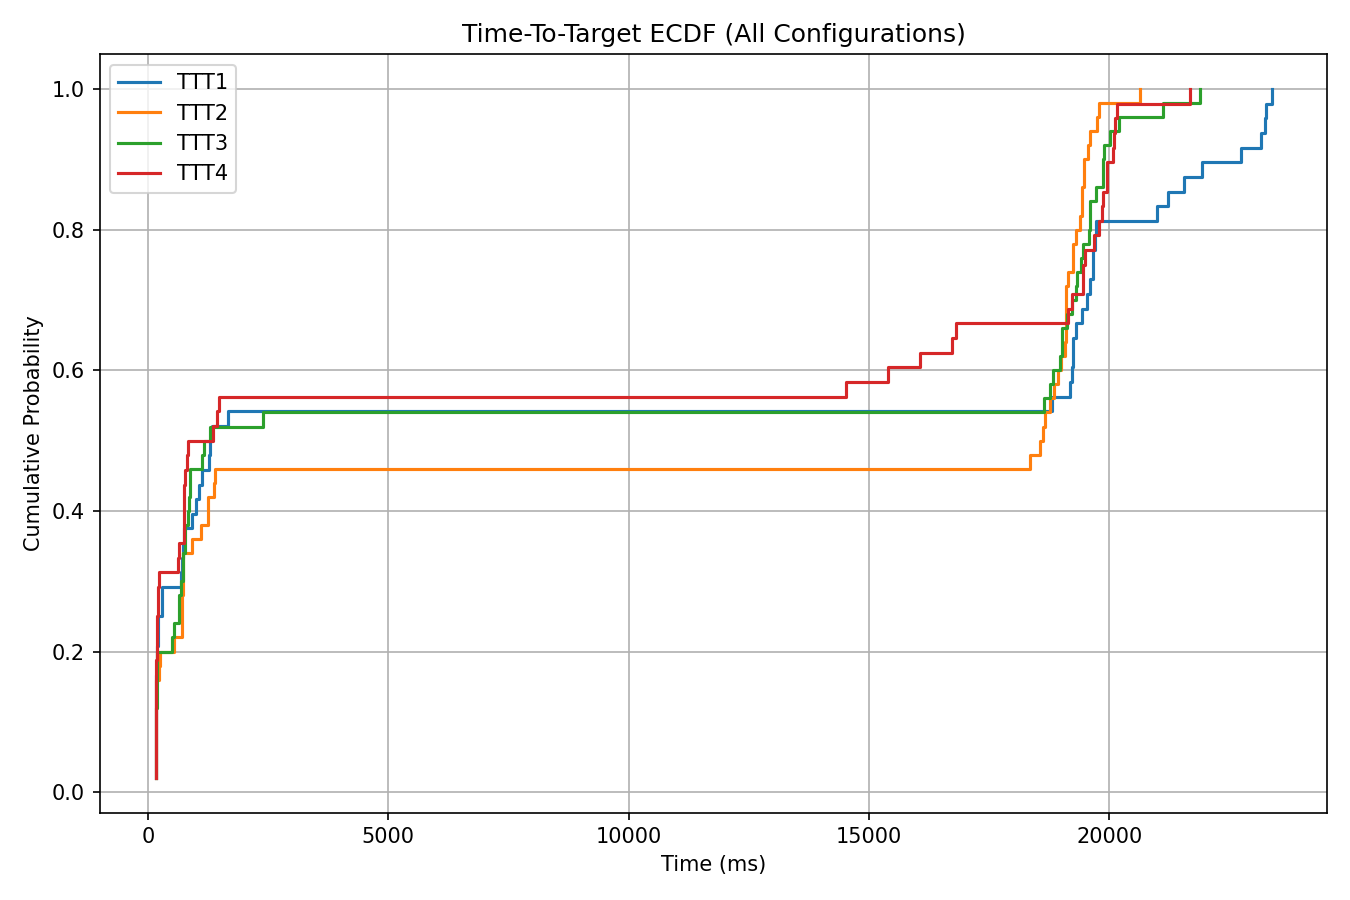
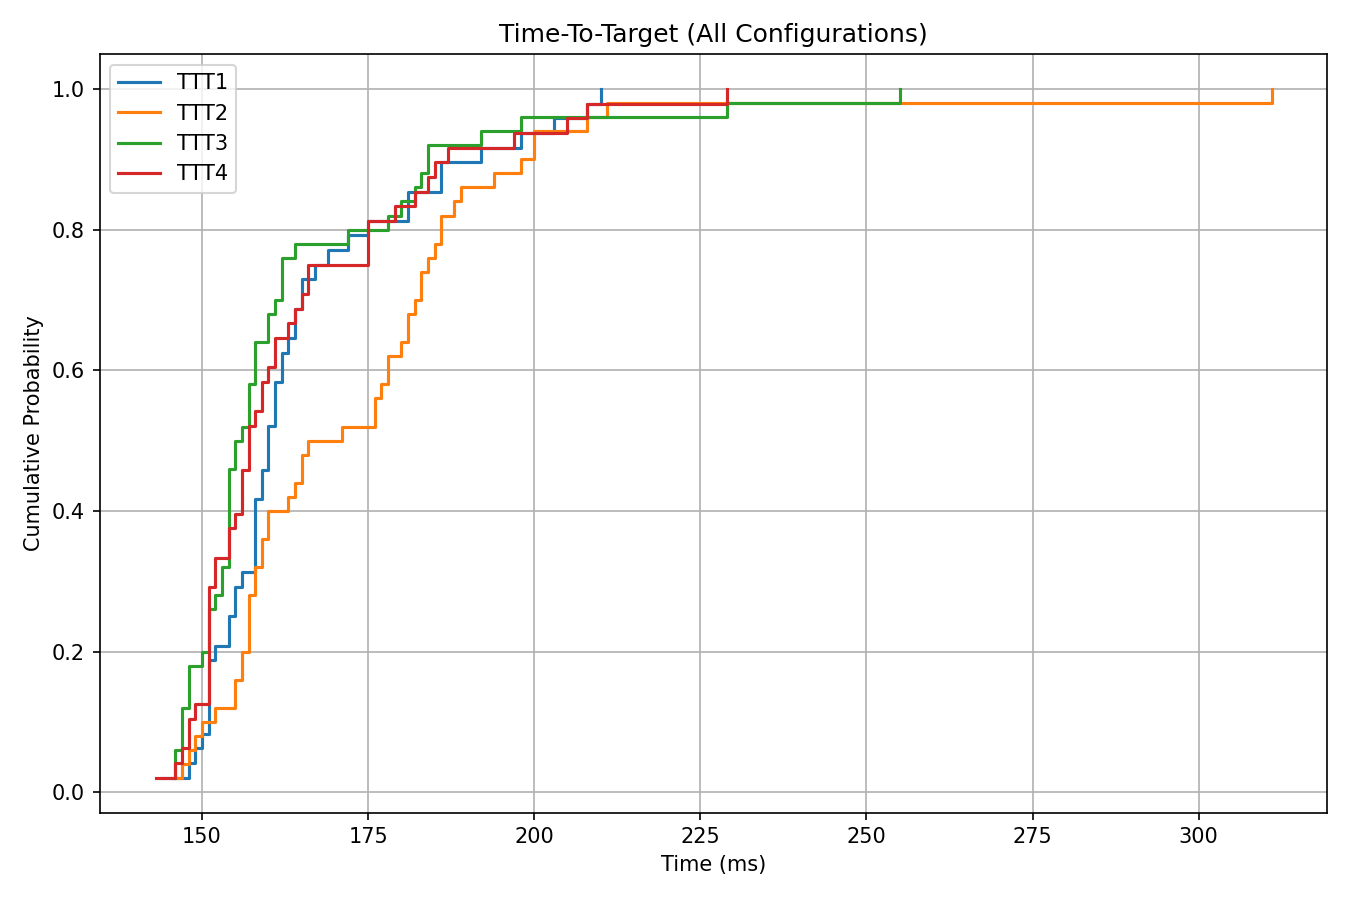
ttt plot

diff --git a/projeto/analysis/ttt_plot.py b/projeto/analysis/ttt_plot.py
@@ -45,12 +45,12 @@ for cfg in configs:
     # Add the ECDF curve to the same plot
     plt.step(times, y, where="post", label=cfg)
 
-plt.title("Time-To-Target ECDF (All Configurations)")
+plt.title("Time-To-Target (All Configurations)")
 plt.xlabel("Time (ms)")
 plt.ylabel("Cumulative Probability")
 plt.grid(True)
 plt.legend()
 plt.tight_layout()
 
-plt.savefig("out/ttt_plot.png", dpi=150)
+plt.savefig("out/ttt_plot2.png", dpi=150)
 plt.close()
